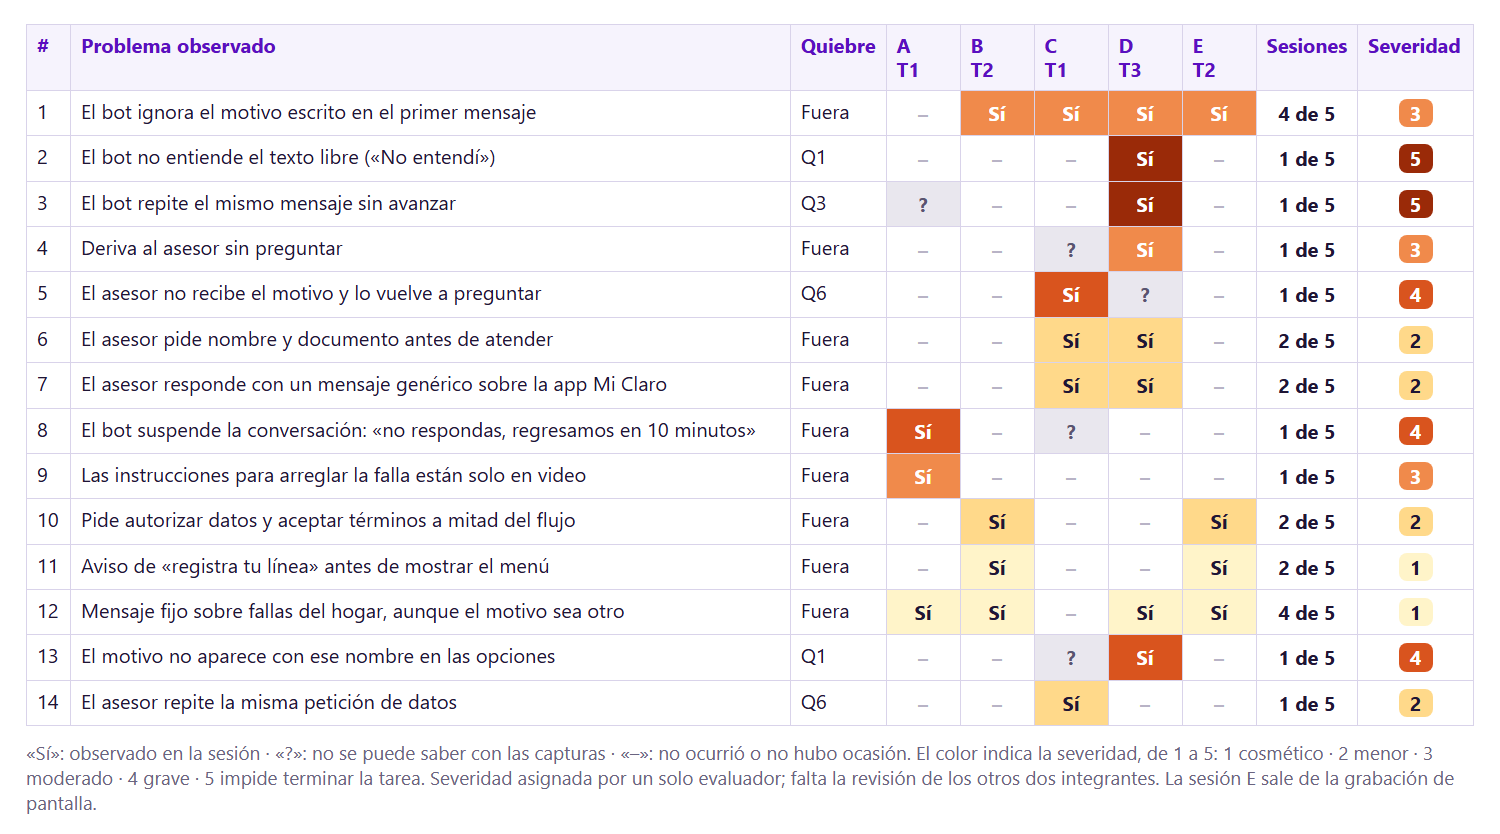
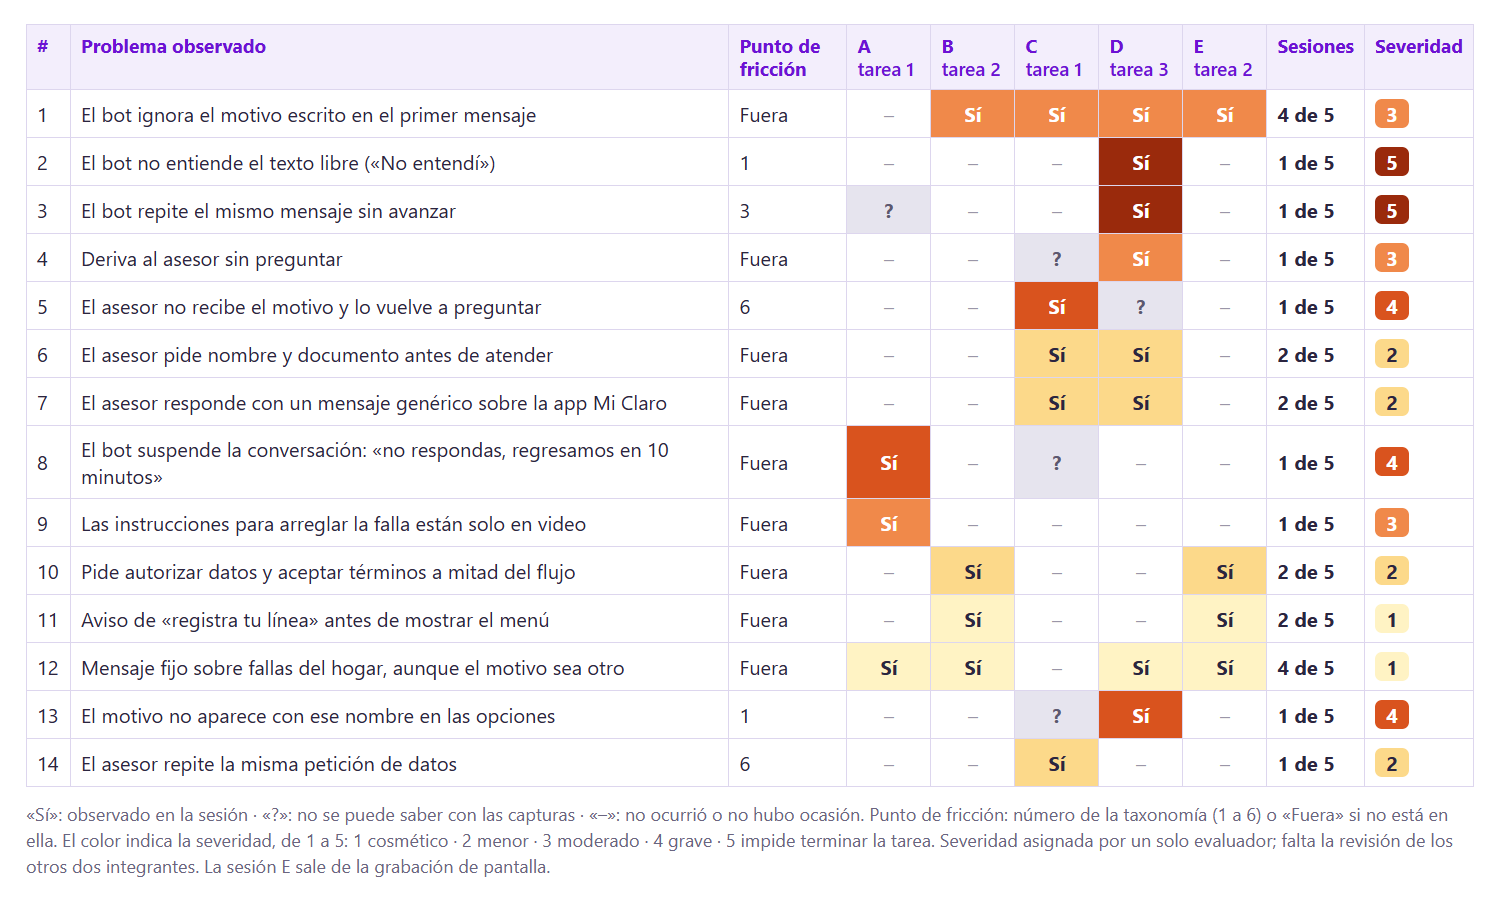
Puntos de fricción y tareas en lugar de Q/T; sesión E en los mapas
La web sigue al Google Doc general: taxonomía como puntos de fricción 1 a 6,
tareas 1 a 3, sesiones B a E en el grupo 1 y nota de la sesión E en el mapa
de toques. Imágenes del rainbow, toques y sesiones actualizadas; la
diapositiva 8 ya no recorta tarjetas.

Changed region(s): [[0.0, 0.0312, 0.9813, 0.9976], [0.0613, 0.0312, 0.184, 0.0624], [0.5827, 0.3118, 0.644, 0.3429]]

diff --git a/presentacion web/index.html b/presentacion web/index.html
@@ -240,11 +240,11 @@ body.dark .bars i.on{background:var(--lima)}
 .n-l{background:#DCCFF7}
 .n-g{background:#DDF5A8}
 .afg{flex:1;min-height:0;display:grid;grid-template-columns:repeat(4,minmax(0,1fr));grid-auto-rows:1fr;gap:14px}
-.af{background:#EBE3FB;border:1px solid rgba(140,32,255,.18);border-radius:20px;padding:0 16px 12px;overflow:hidden;display:flex;flex-direction:column;min-height:0}
-.afb{height:8px;margin:0 -16px 12px}
+.af{background:#EBE3FB;border:1px solid rgba(140,32,255,.18);border-radius:20px;padding:0 16px 8px;overflow:hidden;display:flex;flex-direction:column;min-height:0}
+.afb{height:8px;margin:0 -16px 8px;flex-shrink:0}
 .afh{margin:0;font-size:28px;font-weight:800;color:var(--violeta-prof);line-height:1.15}
-.afd{margin:6px 0 0;font-size:22px;color:var(--secundario);line-height:1.15}
-.afn{margin:6px 0 0;padding:8px 12px;border-radius:12px;font-size:22px;line-height:1.15;color:var(--texto)}
+.afd{margin:4px 0 0;font-size:22px;color:var(--secundario);line-height:1.15}
+.afn{margin:5px 0 0;padding:6px 12px;border-radius:12px;font-size:22px;line-height:1.15;color:var(--texto)}
 .afn b{font-size:18px;font-weight:800;white-space:nowrap}
 .chip{display:inline-block;font-size:18px;font-weight:800;color:#fff;padding:2px 10px;border-radius:999px;vertical-align:middle;margin-left:6px;letter-spacing:.04em}
 
@@ -467,7 +467,7 @@ body.no-motion *,body.no-motion *::before,body.no-motion *::after{transition:non
       <div class="card"><div class="hd" style="background:#8C20FF">Fortalezas</div>
         <div class="bd"><ul class="list">
           <li>Es el canal preferido: 16 de 33 (48 %)</li>
-          <li>La compra de datos fluye sin quiebres</li>
+          <li>La compra de datos fluye sin puntos de fricción</li>
           <li>Lo escrito queda en pantalla.</li>
         </ul></div></div>
       <div class="card"><div class="hd" style="background:#C2410C">Debilidades</div>
@@ -507,18 +507,18 @@ body.no-motion *,body.no-motion *::before,body.no-motion *::after{transition:non
   </div>
 </section>
 
-<!-- 6 · Q1 a Q6 -->
+<!-- 6 · Puntos de fricción 1 a 6 -->
 <section class="slide" data-group="Semanas 3–4" aria-label="Diapositiva 6 de 24">
   <div class="week-row"><span class="week">SEMANAS 3–4</span><span class="wsep" data-wave></span></div>
-  <h2>Q1 a Q6 ordenan lo que vimos</h2>
+  <h2>Seis puntos de fricción ordenan lo que vimos</h2>
   <div class="body">
     <div class="grid3" style="grid-template-rows:1fr 1fr;flex:1">
-      <div class="card"><div class="fig" style="font-size:64px">Q1</div><p class="ttl" style="margin:10px 0 6px">No encontró la opción</p><p class="cap muted" style="margin:0">(no aparece y hay que deducirla)</p></div>
-      <div class="card"><div class="fig" style="font-size:64px">Q2</div><p class="ttl" style="margin:10px 0 6px">Interpretó mal</p><p class="cap muted" style="margin:0">(el bot responde a otra intención)</p></div>
-      <div class="card"><div class="fig" style="font-size:64px">Q3</div><p class="ttl" style="margin:10px 0 6px">Se quedó en círculos</p><p class="cap muted" style="margin:0">(repite opciones sin avanzar)</p></div>
-      <div class="card"><div class="fig" style="font-size:64px">Q4</div><p class="ttl" style="margin:10px 0 6px">Mensaje largo o confuso</p><p class="cap muted" style="margin:0">(cuesta identificar la opción)</p></div>
-      <div class="card"><div class="fig" style="font-size:64px">Q5</div><p class="ttl" style="margin:10px 0 6px">No permite corregir</p><p class="cap muted" style="margin:0">(corregir exige reiniciar)</p></div>
-      <div class="card"><div class="fig" style="font-size:64px">Q6</div><p class="ttl" style="margin:10px 0 6px">Derivación mal hecha</p><p class="cap muted" style="margin:0">(el asesor no recibe el historial o tarda)</p></div>
+      <div class="card"><div class="fig" style="font-size:64px">1</div><p class="ttl" style="margin:10px 0 6px">No encontró la opción</p><p class="cap muted" style="margin:0">(no aparece y hay que deducirla)</p></div>
+      <div class="card"><div class="fig" style="font-size:64px">2</div><p class="ttl" style="margin:10px 0 6px">Interpretó mal</p><p class="cap muted" style="margin:0">(el bot responde a otra intención)</p></div>
+      <div class="card"><div class="fig" style="font-size:64px">3</div><p class="ttl" style="margin:10px 0 6px">Se quedó en círculos</p><p class="cap muted" style="margin:0">(repite opciones sin avanzar)</p></div>
+      <div class="card"><div class="fig" style="font-size:64px">4</div><p class="ttl" style="margin:10px 0 6px">Mensaje largo o confuso</p><p class="cap muted" style="margin:0">(cuesta identificar la opción)</p></div>
+      <div class="card"><div class="fig" style="font-size:64px">5</div><p class="ttl" style="margin:10px 0 6px">No permite corregir</p><p class="cap muted" style="margin:0">(corregir exige reiniciar)</p></div>
+      <div class="card"><div class="fig" style="font-size:64px">6</div><p class="ttl" style="margin:10px 0 6px">Derivación mal hecha</p><p class="cap muted" style="margin:0">(el asesor no recibe el historial o tarda)</p></div>
     </div>
   </div>
 </section>
@@ -528,16 +528,16 @@ body.no-motion *,body.no-motion *::before,body.no-motion *::after{transition:non
   <div class="week-row"><span class="week">SEMANAS 5–6</span><span class="wsep" data-wave></span></div>
   <h2 class="long">Lo más común: no encontrar la opción y dar vueltas</h2>
   <div class="body">
-    <p class="cap muted" style="margin:0">Base: 33 personas. Cantidad de personas que tuvieron cada quiebre.</p>
+    <p class="cap muted" style="margin:0">Base: 33 personas. Cantidad de personas que tuvieron cada punto de fricción.</p>
     <div class="hbars">
-      <div class="hbar"><span>Q1 No encontró la opción</span><div class="track"><div class="fill top" style="--v:.394"></div></div><span class="val">13 (39 %)</span></div>
-      <div class="hbar"><span>Q3 Se quedó en círculos</span><div class="track"><div class="fill" style="--v:.364"></div></div><span class="val">12 (36 %)</span></div>
-      <div class="hbar"><span>Q6 Derivación mal hecha</span><div class="track"><div class="fill" style="--v:.333"></div></div><span class="val">11 (33 %)</span></div>
-      <div class="hbar"><span>Q2 Interpretó mal</span><div class="track"><div class="fill" style="--v:.303"></div></div><span class="val">10 (30 %)</span></div>
-      <div class="hbar"><span>Q5 No permite corregir</span><div class="track"><div class="fill" style="--v:.182"></div></div><span class="val">6 (18 %)</span></div>
-      <div class="hbar"><span>Q4 Mensaje largo o confuso</span><div class="track"><div class="fill" style="--v:.152"></div></div><span class="val">5 (15 %)</span></div>
+      <div class="hbar"><span>1 · No encontró la opción</span><div class="track"><div class="fill top" style="--v:.394"></div></div><span class="val">13 (39 %)</span></div>
+      <div class="hbar"><span>3 · Se quedó en círculos</span><div class="track"><div class="fill" style="--v:.364"></div></div><span class="val">12 (36 %)</span></div>
+      <div class="hbar"><span>6 · Derivación mal hecha</span><div class="track"><div class="fill" style="--v:.333"></div></div><span class="val">11 (33 %)</span></div>
+      <div class="hbar"><span>2 · Interpretó mal</span><div class="track"><div class="fill" style="--v:.303"></div></div><span class="val">10 (30 %)</span></div>
+      <div class="hbar"><span>5 · No permite corregir</span><div class="track"><div class="fill" style="--v:.182"></div></div><span class="val">6 (18 %)</span></div>
+      <div class="hbar"><span>4 · Mensaje largo o confuso</span><div class="track"><div class="fill" style="--v:.152"></div></div><span class="val">5 (15 %)</span></div>
     </div>
-    <p class="lead">Nota: 7 de 33 no tuvieron ningún quiebre.</p>
+    <p class="lead">Nota: 7 de 33 no tuvieron ningún punto de fricción.</p>
   </div>
 </section>
 
@@ -555,17 +555,17 @@ body.no-motion *,body.no-motion *::before,body.no-motion *::after{transition:non
     <div class="afg">
       <div class="af"><div class="afb" style="background:var(--violeta)"></div>
         <h3 class="afh">1. El bot no entiende lo que escribo</h3>
-        <p class="afd">Q2 · 10 de 33 · 5 de 7 entrevistas</p>
+        <p class="afd">Punto de fricción 2 · 10 de 33 · 5 de 7 entrevistas</p>
         <p class="afn n-l">Esto no tiene nada que ver con lo que escribí <b>(E3)</b></p>
-        <p class="afn n-g">La intención escrita en el primer mensaje fue ignorada <b>(Sesiones B, C y D)</b></p></div>
+        <p class="afn n-g">Ignoró el motivo escrito en el primer mensaje <b>(Sesiones B a E)</b></p></div>
       <div class="af"><div class="afb" style="background:var(--violeta)"></div>
         <h3 class="afh">2. Doy vueltas y repito lo mismo</h3>
-        <p class="afd">Q3 · 12 de 33 en la encuesta</p>
+        <p class="afd">Punto de fricción 3 · 12 de 33</p>
         <p class="afn n-l">Ya van tres veces con lo mismo <b>(E5)</b></p>
         <p class="afn n-y">Me tocó repetir varias veces lo mismo hasta que funcionó <b>(Encuesta)</b></p></div>
       <div class="af"><div class="afb" style="background:var(--violeta)"></div>
         <h3 class="afh">3. No encuentro la opción</h3>
-        <p class="afd">Q1 · 13 de 33 en la encuesta</p>
+        <p class="afd">Punto de fricción 1 · 13 de 33</p>
         <p class="afn n-l">Es que yo no sé cuál es el botón que le sirve a uno <b>(E4)</b></p>
         <p class="afn n-l">Aquí no veo dónde pedir una persona <b>(E4)</b></p></div>
       <div class="af"><div class="afb" style="background:var(--violeta)"></div>
@@ -580,17 +580,17 @@ body.no-motion *,body.no-motion *::before,body.no-motion *::after{transition:non
         <p class="afn n-l">Para el saldo y los paquetes sirve bien <b>(E3)</b></p></div>
       <div class="af"><div class="afb" style="background:var(--alerta)"></div>
         <h3 class="afh">6. Esperas y tiempo perdido <span class="chip" style="background:var(--alerta)">NUEVO</span></h3>
-        <p class="afd">Fuera de Q1–Q6 · 4 de 7 entrevistas</p>
+        <p class="afd">Fuera de la lista · 4 de 7 entrevistas</p>
         <p class="afn n-l">Un mensaje de tres minutos sin más información no sirve <b>(E7)</b></p>
         <p class="afn n-l">Abandonó al segundo aviso de espera, de 5 minutos <b>(E2)</b></p></div>
       <div class="af"><div class="afb" style="background:var(--alerta)"></div>
         <h3 class="afh">7. Lo intenté una vez y no volví <span class="chip" style="background:var(--alerta)">NUEVO</span></h3>
-        <p class="afd">Fuera de Q1–Q6 · 4 de 6 lo dejaron</p>
+        <p class="afd">Fuera de la lista · 4 de 6 lo dejaron</p>
         <p class="afn n-l">Lo intenté una vez y me tocó llamar igual, entonces perdí el tiempo dos veces <b>(E7)</b></p>
         <p class="afn n-y">No, ya no lo uso, me cansé con ellos <b>(Encuesta)</b></p></div>
       <div class="af"><div class="afb" style="background:var(--violeta)"></div>
         <h3 class="afh">8. La transferencia al asesor falla</h3>
-        <p class="afd">Q6 · 11 de 33 en la encuesta</p>
+        <p class="afd">Punto de fricción 6 · 11 de 33</p>
         <p class="afn n-g">El asesor preguntó «¿en qué puedo ayudarte hoy?» justo después de que la persona lo dijera <b>(Sesión C)</b></p>
         <p class="afn n-l">Que me diga cuánto voy a esperar al asesor <b>(E7)</b></p></div>
     </div>
@@ -628,8 +628,8 @@ body.no-motion *,body.no-motion *::before,body.no-motion *::after{transition:non
           <li>Miedo a equivocarse y a que le descuenten saldo <span class="src">(E4)</span></li>
         </ul></div>
       <div class="ec" style="border-top:8px solid var(--alerta)"><p class="ct" style="color:var(--alerta)">Dolores</p>        <ul>
-          <li>No encuentra la opción que busca <span class="src">(Q1)</span> (39 % de la encuesta)</li>
-          <li>La conversación se queda en círculos <span class="src">(Q3)</span> (36 % de la encuesta)</li>
+          <li>No encuentra la opción que busca <span class="src">(punto de fricción 1)</span> (39 % de la encuesta)</li>
+          <li>La conversación se queda en círculos <span class="src">(punto de fricción 3)</span> (36 % de la encuesta)</li>
           <li>Solo 5 de 33 resolvieron en el chat a la primera (15 % de la encuesta)</li>
         </ul></div>
       <div class="ec" style="border-top:8px solid #2F7D4F"><p class="ct" style="color:#2F7D4F">Ganancias</p>        <ul>
@@ -723,7 +723,7 @@ body.no-motion *,body.no-motion *::before,body.no-motion *::after{transition:non
   <div class="week-row"><span class="week">SEMANA 8</span><span class="wsep" data-wave></span></div>
   <h2>Los botones avanzan; la caja de texto no</h2>
   <div class="body">
-    <p class="lead">En lugar de mapas de calor, que no existen en un chat, mapeamos los toques en tres pantallas del bot (sesiones A a D).</p>
+    <p class="lead">En lugar de mapas de calor, que no existen en un chat, mapeamos los toques en tres pantallas del bot (sesiones A a D; la E, de una línea prepago, no pasó por ellas).</p>
     <figure class="card img-card" style="margin:0"><img data-zoom src="media/toques.png" alt="Mapa de toques en tres pantallas del bot, sesiones A a D"></figure>
   </div>
 </section>
@@ -924,10 +924,10 @@ body.no-motion *,body.no-motion *::before,body.no-motion *::after{transition:non
         <div class="jl">Evidencia</div>
         <div>17 de 33 escriben por una falla</div>
         <div>Motivo ignorado en 4 de 4 sesiones</div>
-        <div>Q1: 13 de 33 · mapa del menú (inspección)</div>
-        <div class="c4">Q3: 12 de 33 · «ya van tres veces» (E5)</div>
+        <div>Punto de fricción 1: 13 de 33 · mapa del menú (inspección)</div>
+        <div class="c4">Punto de fricción 3: 12 de 33 · «ya van tres veces» (E5)</div>
         <div>21 de 33 lo pidieron · inspección del 13 y 14/10</div>
-        <div>Q6: 9 de 21 repitieron todo</div>
+        <div>Punto de fricción 6: 9 de 21 repitieron todo</div>
         <div>15 de 33 resolvieron · 4 de 6 no volvieron.</div>
 
         <div class="jl">Oportunidad</div>
@@ -956,7 +956,7 @@ body.no-motion *,body.no-motion *::before,body.no-motion *::after{transition:non
         <ul class="list" style="margin-top:14px">
           <li>1 de cada 11 casos se resuelve sin asesor</li>
           <li>23 de 33 tropezaron al buscar la opción</li>
-          <li>Los quiebres los provoca el texto libre; con botones no hubo ninguno</li>
+          <li>Los puntos de fricción los provoca el texto libre; con botones no hubo ninguno</li>
           <li>El bot deriva al segundo mensaje no reconocido, sin preguntar</li>
           <li>4 de 6 entrevistados dejaron el chat tras un mal intento.</li>
         </ul>

diff --git a/material/contenido.md b/material/contenido.md
@@ -24,7 +24,7 @@ Línea final: Aivo es fuerte en texto e Inceptia en voz.
 ## 4 · FODA (SEMANAS 1–2)
 Título: Lo prefieren, pero no entiende lo que escriben
 Cuatro cuadrantes:
-- Fortalezas: Es el canal preferido: 16 de 33 (48 %) · La compra de datos fluye sin quiebres · Lo escrito queda en pantalla.
+- Fortalezas: Es el canal preferido: 16 de 33 (48 %) · La compra de datos fluye sin puntos de fricción · Lo escrito queda en pantalla.
 - Debilidades: No entiende el texto libre y repite el menú · Solo 5 de 33 (15 %) resolvieron a la primera · Los cobros no tienen autoservicio · 9 de 21 tuvieron que repetir su caso al asesor.
 - Oportunidades: Vozy ya ofrece reconocimiento de lenguaje y Claro no lo tiene configurado · Hay mejoras baratas.
 - Amenazas: 8 de 21 piden asesor sin probar el bot · 10 de 33 resolvieron por otro medio y 13 prefieren la llamada.
@@ -35,15 +35,15 @@ Cifras grandes en fila: 33 encuestas · 5 pruebas con clientes · 7 entrevistas 
 Línea: Cruzamos lo que dicen, lo que hacen y lo que el sistema permite.
 
 ## 6 · Seis formas de fallar (SEMANAS 3–4)
-Título: Q1 a Q6 ordenan lo que vimos
-Seis tarjetas numeradas (texto exacto):
-Q1 No encontró la opción (no aparece y hay que deducirla) · Q2 Interpretó mal (el bot responde a otra intención) · Q3 Se quedó en círculos (repite opciones sin avanzar) · Q4 Mensaje largo o confuso (cuesta identificar la opción) · Q5 No permite corregir (corregir exige reiniciar) · Q6 Derivación mal hecha (el asesor no recibe el historial o tarda).
+Título: Seis puntos de fricción ordenan lo que vimos
+Seis tarjetas numeradas del 1 al 6 (texto exacto):
+1 No encontró la opción (no aparece y hay que deducirla) · 2 Interpretó mal (el bot responde a otra intención) · 3 Se quedó en círculos (repite opciones sin avanzar) · 4 Mensaje largo o confuso (cuesta identificar la opción) · 5 No permite corregir (corregir exige reiniciar) · 6 Derivación mal hecha (el asesor no recibe el historial o tarda).
 
 ## 7 · Lo que dijo la encuesta (SEMANAS 5–6)
 Título: Lo más común: no encontrar la opción y dar vueltas
 Gráfico de barras horizontales hecho en CSS (base 33 personas), barras moradas, la más larga con acento lima sobre fondo noche:
-Q1 13 (39 %) · Q3 12 (36 %) · Q6 11 (33 %) · Q2 10 (30 %) · Q5 6 (18 %) · Q4 5 (15 %).
-Nota: 7 de 33 no tuvieron ningún quiebre.
+1 · No encontró la opción 13 (39 %) · 3 · Se quedó en círculos 12 (36 %) · 6 · Derivación mal hecha 11 (33 %) · 2 · Interpretó mal 10 (30 %) · 5 · No permite corregir 6 (18 %) · 4 · Mensaje largo o confuso 5 (15 %).
+Nota: 7 de 33 no tuvieron ningún punto de fricción.
 
 ## 8 · Mapa de afinidad (SEMANAS 5–6)
 Título: Ocho grupos; dos no estaban en nuestra lista
@@ -78,7 +78,7 @@ Imagen: funnel.png (ancho completo).
 
 ## 14 · Dónde tocan (SEMANA 8)
 Título: Los botones avanzan; la caja de texto no
-Mensaje: En lugar de mapas de calor, que no existen en un chat, mapeamos los toques en tres pantallas del bot (sesiones A a D).
+Mensaje: En lugar de mapas de calor, que no existen en un chat, mapeamos los toques en tres pantallas del bot (sesiones A a D; la E, de una línea prepago, no pasó por ellas).
 Imagen: toques.png.
 
 ## 15 · Dos conversaciones (SEMANA 8)
@@ -129,5 +129,5 @@ Imagen: journey.png (ancho completo).
 
 ## 24 · Cierre (SEMANAS 12–16)
 Título: Lo que encontramos y lo que sigue
-Cinco hallazgos: 1 de cada 11 casos se resuelve sin asesor · 23 de 33 tropezaron al buscar la opción · Los quiebres los provoca el texto libre; con botones no hubo ninguno · El bot deriva al segundo mensaje no reconocido, sin preguntar · 4 de 6 entrevistados dejaron el chat tras un mal intento.
+Cinco hallazgos: 1 de cada 11 casos se resuelve sin asesor · 23 de 33 tropezaron al buscar la opción · Los puntos de fricción los provoca el texto libre; con botones no hubo ninguno · El bot deriva al segundo mensaje no reconocido, sin preguntar · 4 de 6 entrevistados dejaron el chat tras un mal intento.
 Plan: S12 inclusión y sesgos + inicio del experimento · S13 ética y privacidad + fin del experimento · S14 repositorio y service blueprint · S15 storytelling · S16 presentación final.
